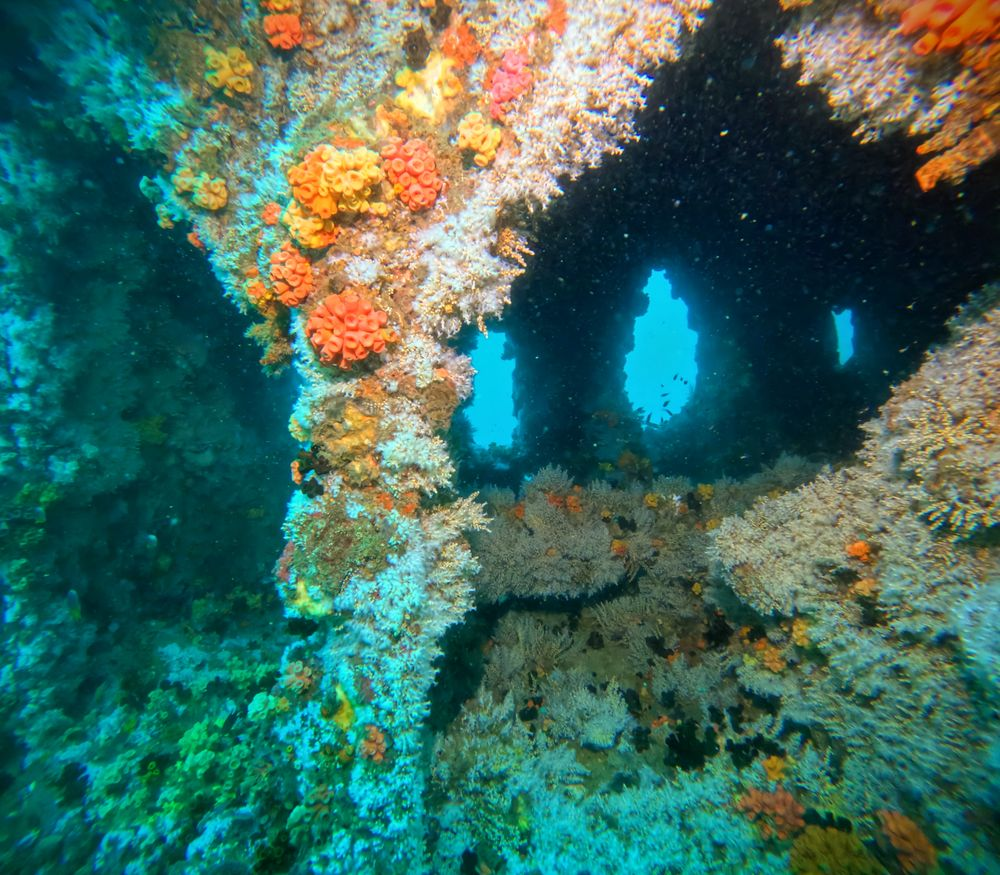
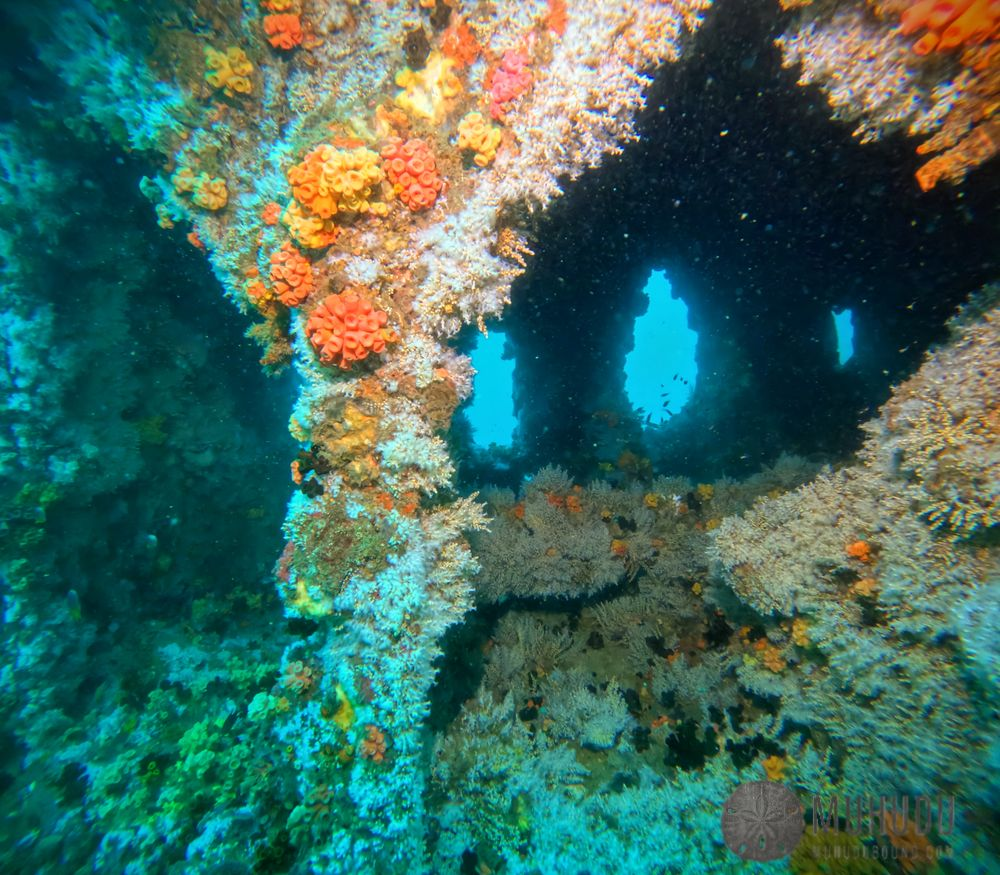
b s w

Changed region(s): [[0.713, 0.8949, 0.961, 0.9874]]

diff --git a/server.js b/server.js
@@ -45,11 +45,16 @@ app.get('/api/list', (req, res) => {
 });
 
 // 4. API: Convert
+const WATERMARK_PATH = path.join(BASE_DIR, 'water-mark-logo.png');
+
 app.post('/api/convert', async (req, res) => {
     const { name, selectedImages } = req.body;
     const targetDir = path.join(BASE_DIR, name);
 
     if (!fs.existsSync(targetDir)) fs.mkdirSync(targetDir);
+
+    // Check if watermark exists
+    const hasWatermark = fs.existsSync(WATERMARK_PATH);
 
     const jsonOutput = await Promise.all(selectedImages.map(async (item, i) => {
         const ext = path.extname(item.fileName);
@@ -63,9 +68,29 @@ app.post('/api/convert', async (req, res) => {
 
         const src = path.join(SOURCE_FOLDER, item.fileName);
 
-        await sharp(src).resize({ width: 1000 }).toFile(path.join(targetDir, names.main));
-        await sharp(src).resize({ width: 500 }).toFile(path.join(targetDir, names.thumb));
-        await sharp(src).resize({ width: 100 }).toFile(path.join(targetDir, names.icon));
+        // 1. Create the Main 1000px image with Watermark
+        let mainImageProcessor = sharp(src).resize({ width: 1000 });
+
+        if (hasWatermark) {
+            // gravity: 'southeast' puts it in the bottom right automatically
+            mainImageProcessor = mainImageProcessor.composite([
+                { 
+                    input: WATERMARK_PATH, 
+                    gravity: 'southeast' 
+                }
+            ]);
+        }
+        await mainImageProcessor.toFile(path.join(targetDir, names.main));
+
+        // 2. Create Thumbnail (500px) - No watermark
+        await sharp(src)
+            .resize({ width: 500 })
+            .toFile(path.join(targetDir, names.thumb));
+
+        // 3. Create Icon (100px) - No watermark
+        await sharp(src)
+            .resize({ width: 100 })
+            .toFile(path.join(targetDir, names.icon));
 
         return {
             image: `${name}/${names.main}`,
